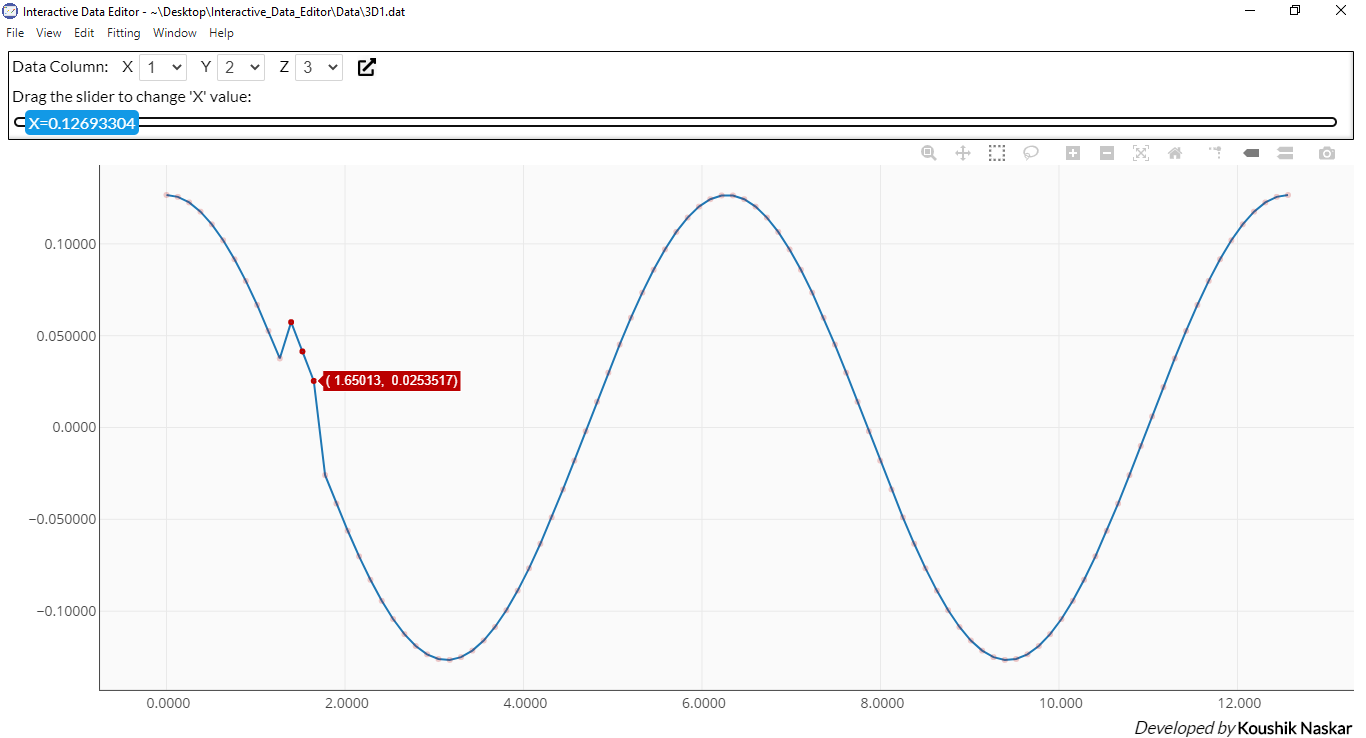
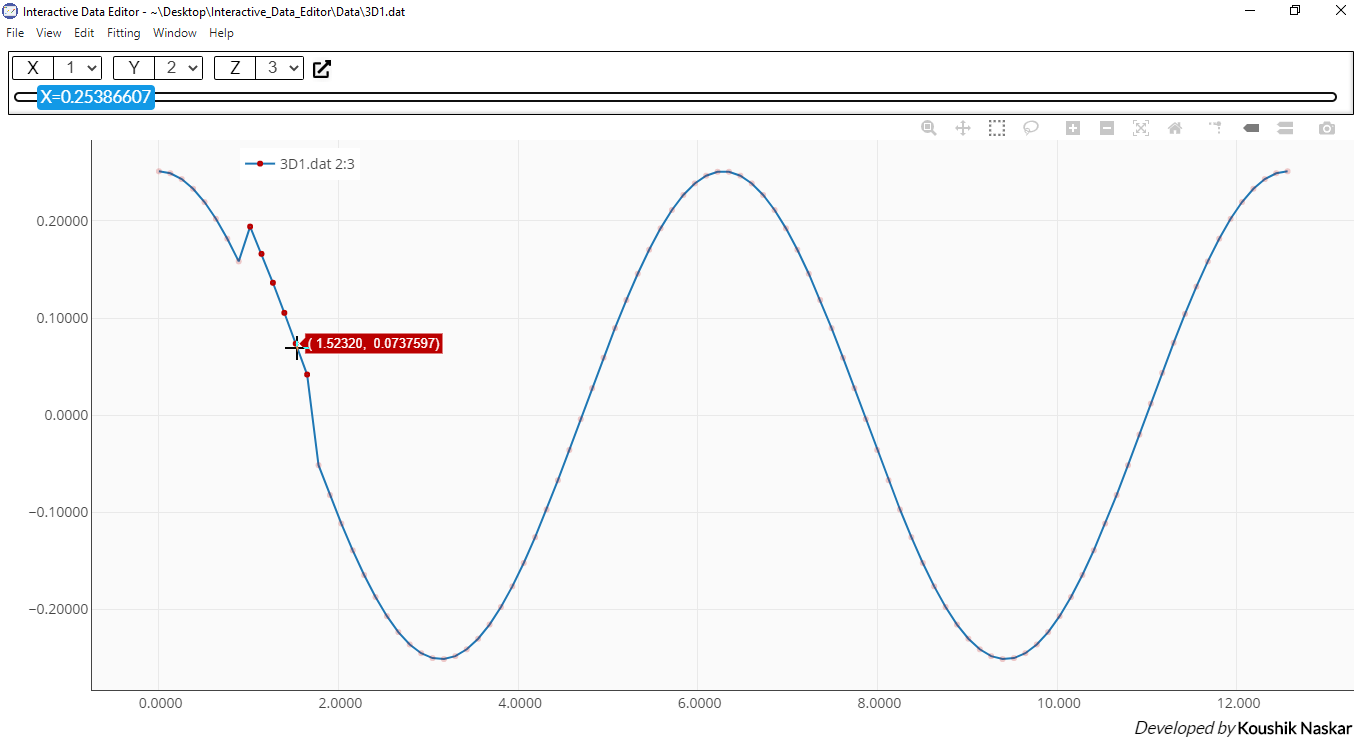
changes

diff --git a/src/js/version.js b/src/js/version.js
@@ -1,27 +1,28 @@
-function versionCheck() {
-    setTimeout(
-        fetch('https://api.github.com/repos/Koushikphy/Interactive_Data_Editor/releases/latest')
-        .then(response => response.json())
-        .then(data => {
-            var body = data.body
-            var new_ver = data.tag_name
-            var cur_var = `v${require('../../package.json').version}`
-            console.log(body, new_ver)
-            if (new_ver != cur_var) {
-                var res = dialog.showMessageBoxSync({
-                    type: "question",
-                    title: "Update available!!!",
-                    message: `A new version of the software ${new_ver} is available.\n Do you want to download it now?`,
-                    buttons: ['OK', "Cancel"]
-                })
-                if (!res) {
-                    shell.openExternal("https://github.com/Koushikphy/Interactive_Data_Editor/releases/latest")
-                }
+function _versionCheck() {
+    fetch('https://api.github.com/repos/Koushikphy/Interactive_Data_Editor/releases/latest')
+    .then(response => response.json())
+    .then(data => {
+        var body = data.body
+        var new_ver = data.tag_name
+        var cur_var = `v${require('../../package.json').version}`
+        console.log(body, new_ver)
+        if (new_ver != cur_var) {
+            var res = dialog.showMessageBoxSync({
+                type: "question",
+                title: "Update available!!!",
+                message: `A new version of the software ${new_ver} is available.\n Do you want to download it now?`,
+                buttons: ['OK', "Cancel"]
+            })
+            if (!res) {
+                shell.openExternal("https://github.com/Koushikphy/Interactive_Data_Editor/releases/latest")
             }
-        }),
-    5000)
+        }
+    })
 }
 
+function versionCheck(){
+    setTimeout(_versionCheck, 5000)
+}
 
 module.exports = {
     versionCheck

diff --git a/src/js/functions.js b/src/js/functions.js
@@ -196,14 +196,6 @@ function fileReader(fname) {
 
 
 
-// this feature is hidden
-var sRange=false, sMin, sMax;
-function setRange(a,b){
-    sMin = parseFloat(a)
-    sMax = parseFloat(b)
-    sRange = true
-}
-
 
 
 function updatePlot(all = true) {
@@ -242,17 +234,6 @@ function updatePlot(all = true) {
         }, currentEditable)
     }
     for (let i = 0; i < dpsx.length; i++) points[i].index = i
-
-    if(sRange){
-        var lay = figurecontainer.layout.yaxis, a=Math.min(...dpsy), b=Math.max(...dpsy);
-        lay.autorange = false
-        a = isNaN(sMin)? a: Math.max(sMin,a)
-        b = isNaN(sMax)? b: Math.min(sMax,b)
-        ab = (b-a)*.03 // gives a slight padding in range
-        tmp = [isNaN(sMin)? a: Math.max(sMin,a), isNaN(sMax)? b: Math.min(sMax,b)]
-        lay.range = [a - ab, b + ab ]
-        Plotly.relayout(figurecontainer, {"yaxis":lay})
-    }
 }
 
 

diff --git a/src/js/keyIpcTrigger.js b/src/js/keyIpcTrigger.js
@@ -26,7 +26,9 @@ window.onkeydown = function hotKeys(e) {
         Plotly.relayout(figurecontainer, {
             "xaxis.autorange": true,
             "yaxis.autorange": true
-        });
+        })
+
+
 
     }else if(e.key==","){ 
         sliderChanged(-1)
@@ -279,7 +281,6 @@ figurecontainer.on("plotly_legendclick", function(){ // to catch the name if cha
     for (let i of figurecontainer.data) tmpLeg.push(i.name)
     legendNames = tmpLeg;
 });
-// figurecontainer.on("plotly_relayout", console.log);
 
 
 ipcRenderer.on("plotsetting", (_,d)=>{ // incoming info from the plotsetting window

diff --git a/src/css/style.css b/src/css/style.css
@@ -680,7 +680,7 @@ a:focus{
 
 .mySelect select{
     border: none;
-    border-radius: 0;
+    /* border-radius: 0; */
     padding: 0 !important;
     margin: 0 !important;
     min-width: 2pc !important;

diff --git a/README.md b/README.md
@@ -4,7 +4,7 @@
 
 [![Version](https://img.shields.io/badge/Version-2.8.0-brightgreen.svg)]() 
 [![MIT License](https://img.shields.io/badge/License-MIT-brightgreen.svg)](https://github.com/Koushikphy/Interactive_Data_Editor/blob/master/LICENSE)
-[![DOI](https://zenodo.org/badge/163010471.svg)](https://zenodo.org/badge/latestdoi/163010471)
+[![DOI](https://zenodo.org/badge/DOI/10.5281/zenodo.3947508.svg)](https://doi.org/10.5281/zenodo.3947508)
 [![Version](https://img.shields.io/badge/Web-https://koushikphy.github.io/ide/-success.svg)](https://koushikphy.github.io/ide/)  
 
 ![alt text](figs/screenshot.png "Screen shot")
@@ -45,5 +45,5 @@ Licensed under the MIT License.
 
 
 ## Citaion
-If this software was helpful in your work, please cite this project as http://doi.org/10.5281/zenodo.3745858 .
+If this software was helpful in your work, please cite this project as https://doi.org/10.5281/zenodo.3947508.
 

diff --git a/RELEASE.md b/RELEASE.md
@@ -3,10 +3,13 @@
 2. doc style changes
 3. Plot setting window
 4. Plot list utility
-4. Mouse Scroll support for slider and column selector
-5. Improved performance
-6. Minor bug fixes
-7. Improved 3D plotter  
+5. Mouse Scroll support for slider and column selector
+6. Coulumn selector from 3D Viewer window
+7. Improved performance
+8. Minor bug fixes
+9. Improved 3D plotter  
+10. Axes range bug in 3D plotter
+
 
 ## 2.7.0
 #### NEW:
